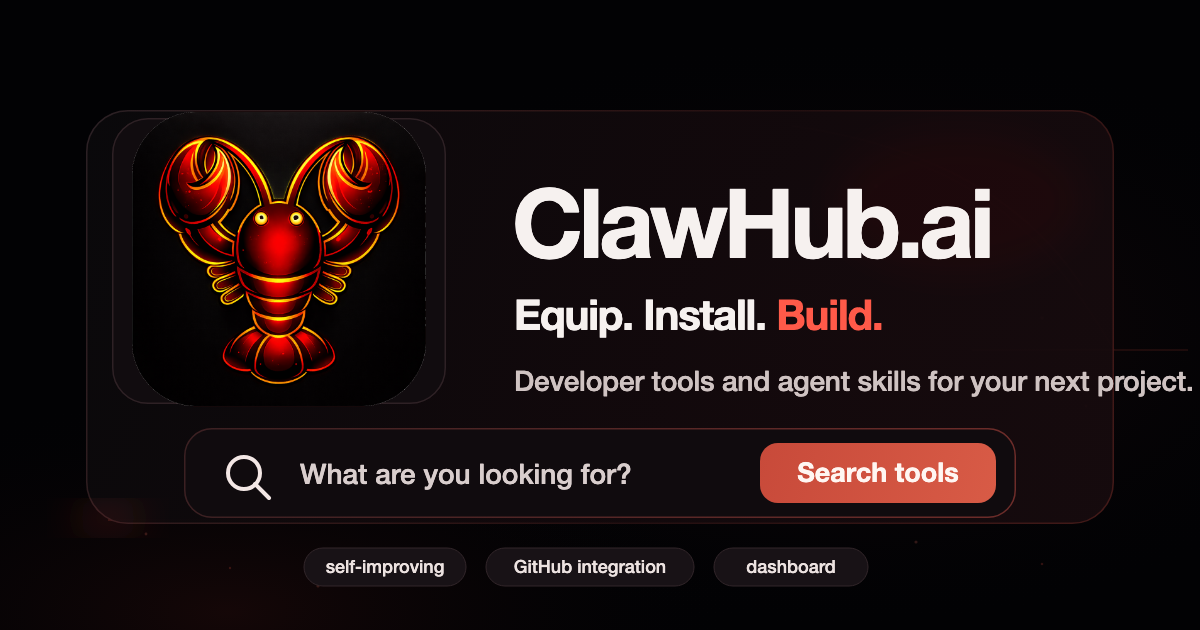
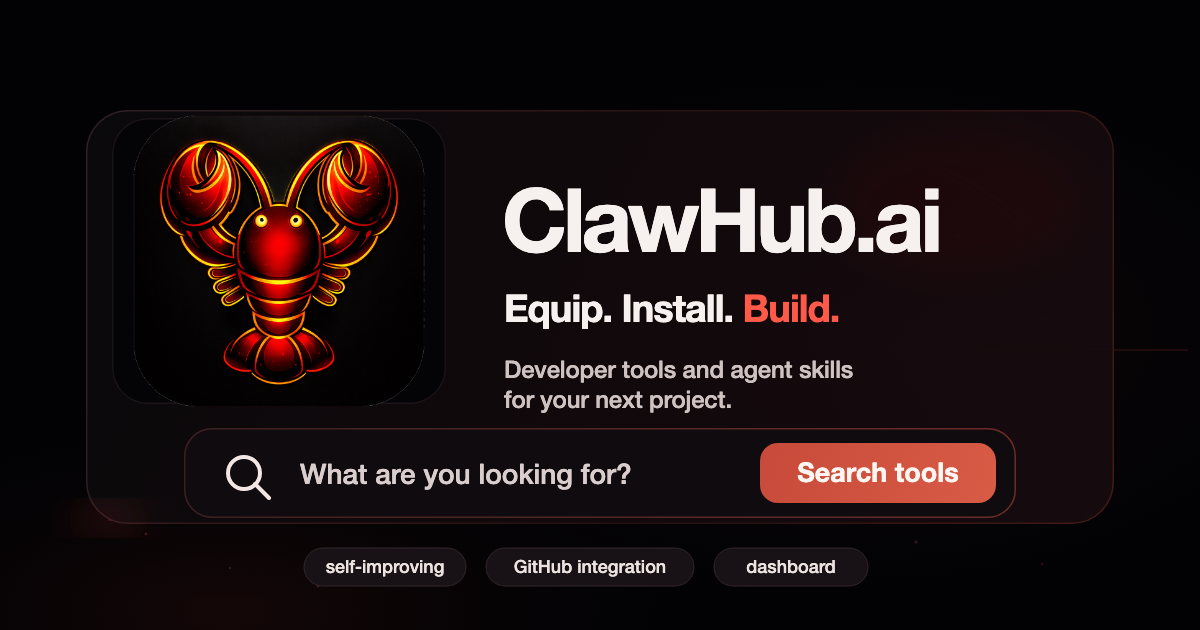
fix: tighten og image layout

diff --git a/src/routes/__root.tsx b/src/routes/__root.tsx
@@ -10,7 +10,7 @@ import Header from "../components/Header";
 import { getSiteDescription, getSiteMode, getSiteName, getSiteUrlForMode } from "../lib/site";
 import appCss from "../styles.css?url";
 
-const OG_IMAGE_VERSION = "20260420-7";
+const OG_IMAGE_VERSION = "20260420-8";
 
 export const Route = createRootRoute({
   head: () => {
